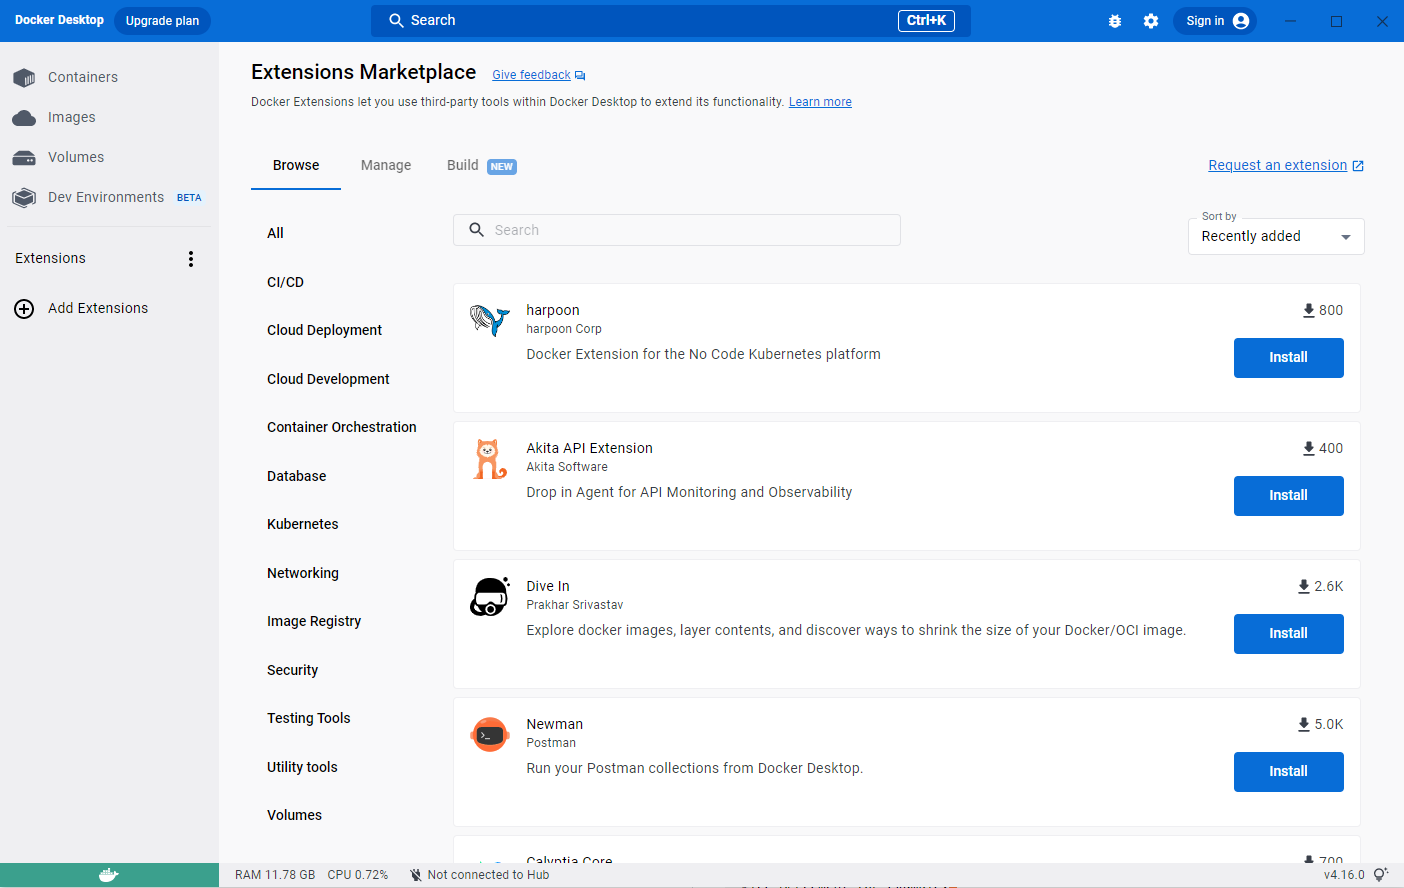
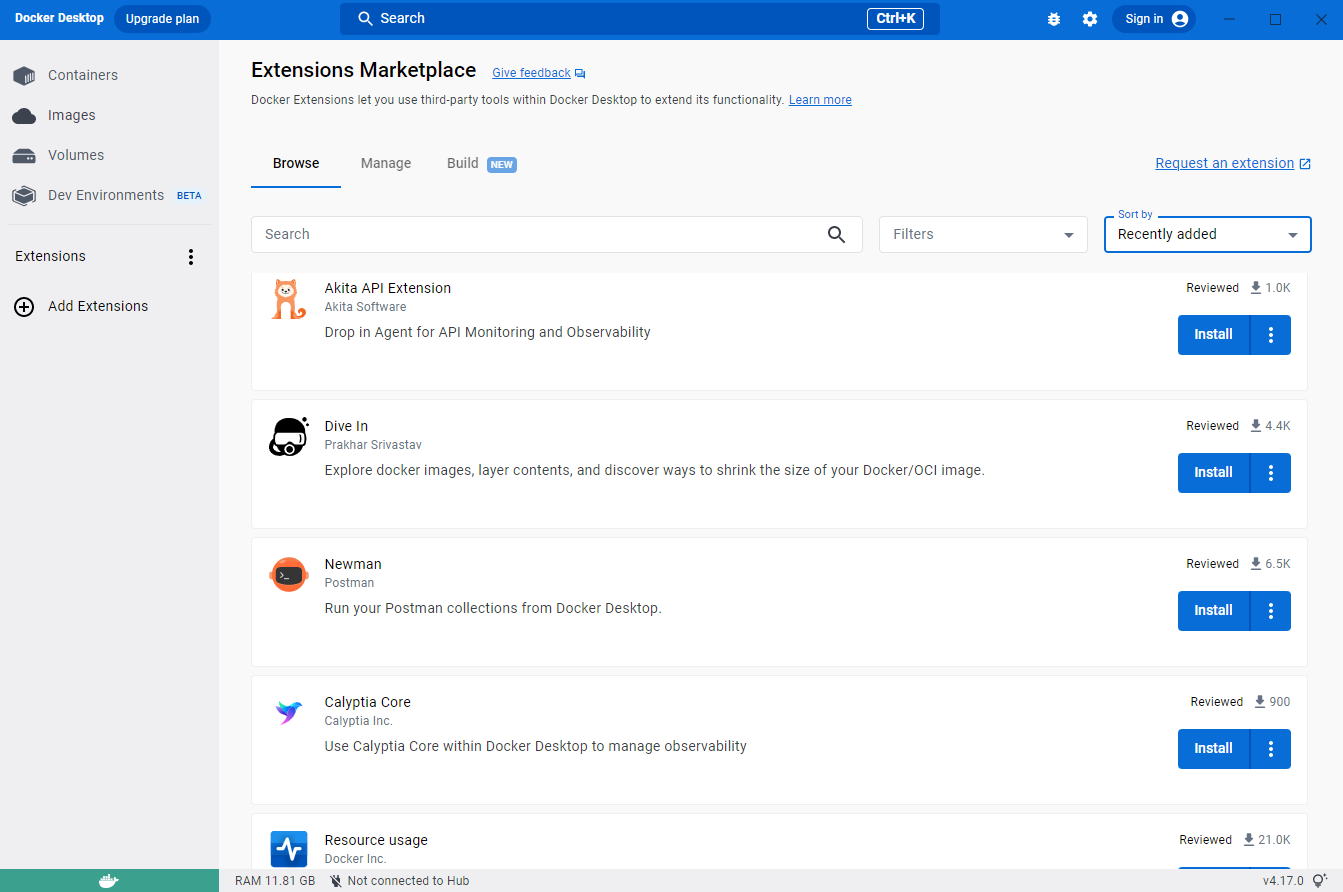
extensions content

diff --git a/desktop/extensions/marketplace.md b/desktop/extensions/marketplace.md
@@ -16,7 +16,7 @@ To install an extension:
 2. From the Dashboard, select **Add Extensions** in the menu bar.
    The Extensions Marketplace opens on the **Browse** tab.
 3. Browse the available extensions.
-   You can sort the list of extensions by **Recently added** or alphabetically.
+   You can sort the list of extensions by **Recently added**, **Most installed** or alphabetically. Alternatively, use **Filters** to search for extensions by category or whether they have been reviewed or not.
 4. Choose you extension and select **Install**.
 
 From here, you can select **Open** to access the extension or install additional extensions. The extension also appears in the left-hand menu and in the **Manage** tab.
